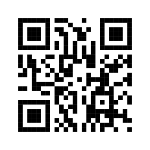
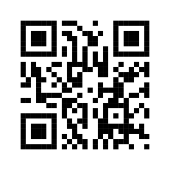
Added JS code

diff --git a/QR Code Generator/style.css b/QR Code Generator/style.css
@@ -16,11 +16,16 @@ body {
 }
 
 .wrapper {
-    height: 260px;
+  height: 260px;
   background-color: #fff;
   max-width: 410px;
   border-radius: 7px;
-  padding: 16px 25px;
+  padding: 16px 25px 0;
+  transition: height 0.2s ease;
+}
+
+.wrapper.active {
+    height: 530px;
 }
 
 header h1 {
@@ -35,7 +40,7 @@ header p {
 }
 
 .wrapper .form {
-  margin: 20px 0 30px;
+  margin: 20px 0 25px;
 }
 
 .form :where(input, button) {
@@ -61,12 +66,18 @@ header p {
 }
 
 .wrapper .qr-code {
-    opacity: 0;
-    pointer-events: none;
-    display: flex;
-    padding: 33px 0;
-    border-radius: 5px;
-    align-items: center;
-    justify-content: center;
-    border: 1px solid #ccc;
+  opacity: 0;
+  pointer-events: none;
+  display: flex;
+  padding: 33px 0;
+  border-radius: 5px;
+  align-items: center;
+  justify-content: center;
+  border: 1px solid #ccc;
+}
+
+.wrapper.active  .qr-code{
+    opacity: 1;
+    pointer-events: auto;
+    transition: opacity 0.5s 0.05s ease;
 }

diff --git a/QR Code Generator/script.js b/QR Code Generator/script.js
@@ -1,0 +1,11 @@
+const wrapper = document.querySelector(".wrapper"),
+qrInput = wrapper.querySelector(".form input"),
+generateBtn = wrapper.querySelector(".form button");
+qrImg = wrapper.querySelector(".qr-code img"),
+
+generateBtn.addEventListener("click", () => {
+    let qrValue = qrInput.value;
+    if(!qrValue) return;
+    qrImg.src = `https://api.qrserver.com/v1/create-qr-code/?size=170x170&data=${qrValue} `;
+    wrapper.classList.add("active");
+});

diff --git a/QR Code Generator/index.html b/QR Code Generator/index.html
@@ -18,8 +18,10 @@
             <button>Generate QR Code</button>
         </div>
         <div class="qr-code">
-            <img src="qr-code.png" alt="qr-code">
+            <img src="" alt="qr-code">
         </div>
     </div>
+
+    <script src="script.js"></script>
 </body>
 </html>
